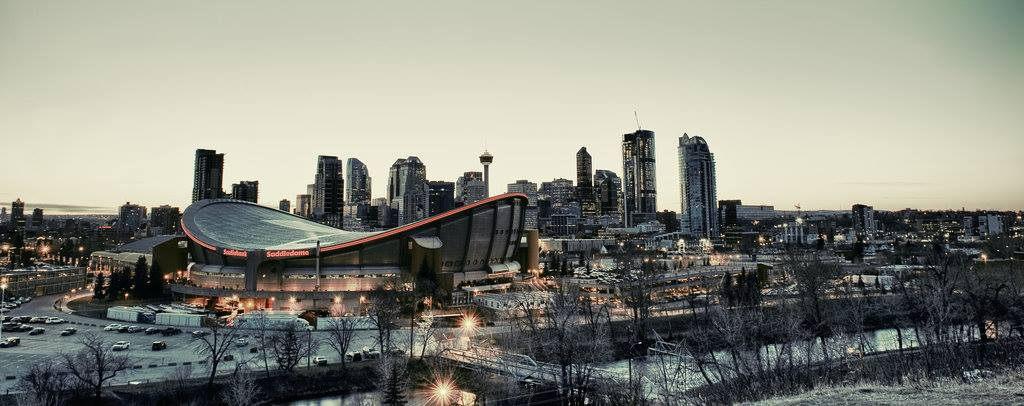
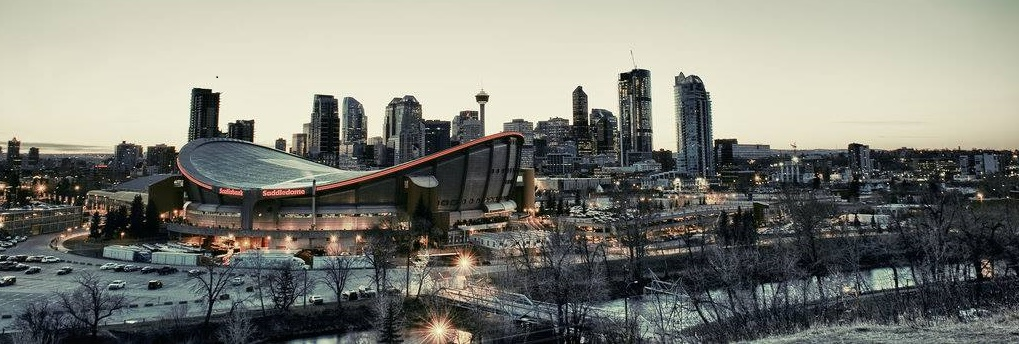
added animations in the beginning. yay

diff --git a/VerticalPrototype/WelcomeToCalgary/WelcomeToCalgary/MainWindow.xaml b/VerticalPrototype/WelcomeToCalgary/WelcomeToCalgary/MainWindow.xaml
@@ -6,65 +6,189 @@
         xmlns:local="clr-namespace:WelcomeToCalgary"
         mc:Ignorable="d"
         Title="MainWindow" Height="800" Width="600">
-    <StackPanel>
-        <Grid x:Name="HeaderGrid" Height="80">
+	<Window.Resources>
+		<Storyboard x:Key="startup">
+			<DoubleAnimationUsingKeyFrames Storyboard.TargetProperty="(UIElement.RenderTransform).(TransformGroup.Children)[3].(TranslateTransform.Y)" Storyboard.TargetName="image">
+				<EasingDoubleKeyFrame KeyTime="0" Value="10.449"/>
+				<EasingDoubleKeyFrame KeyTime="0:0:0.5" Value="10.449"/>
+				<EasingDoubleKeyFrame KeyTime="0:0:1.7" Value="10.449"/>
+				<EasingDoubleKeyFrame KeyTime="0:0:2.9" Value="8.211"/>
+			</DoubleAnimationUsingKeyFrames>
+			<DoubleAnimationUsingKeyFrames Storyboard.TargetProperty="(UIElement.Opacity)" Storyboard.TargetName="HeaderGrid">
+				<EasingDoubleKeyFrame KeyTime="0" Value="0"/>
+				<EasingDoubleKeyFrame KeyTime="0:0:2" Value="1"/>
+			</DoubleAnimationUsingKeyFrames>
+			<DoubleAnimationUsingKeyFrames Storyboard.TargetProperty="(UIElement.Opacity)" Storyboard.TargetName="image">
+				<EasingDoubleKeyFrame KeyTime="0" Value="0.005"/>
+				<EasingDoubleKeyFrame KeyTime="0:0:0.5" Value="0.59"/>
+				<EasingDoubleKeyFrame KeyTime="0:0:1.7" Value="1"/>
+			</DoubleAnimationUsingKeyFrames>
+			<DoubleAnimationUsingKeyFrames Storyboard.TargetProperty="(UIElement.Opacity)" Storyboard.TargetName="calgaryLogo">
+				<EasingDoubleKeyFrame KeyTime="0" Value="0"/>
+				<EasingDoubleKeyFrame KeyTime="0:0:0.9" Value="0.19"/>
+				<EasingDoubleKeyFrame KeyTime="0:0:2.8" Value="0.91"/>
+			</DoubleAnimationUsingKeyFrames>
+			<DoubleAnimationUsingKeyFrames Storyboard.TargetProperty="(UIElement.Opacity)" Storyboard.TargetName="rectangle">
+				<EasingDoubleKeyFrame KeyTime="0" Value="0"/>
+				<EasingDoubleKeyFrame KeyTime="0:0:0.7" Value="0.425"/>
+				<EasingDoubleKeyFrame KeyTime="0:0:2.9" Value="0.995"/>
+			</DoubleAnimationUsingKeyFrames>
+			<DoubleAnimationUsingKeyFrames Storyboard.TargetProperty="(UIElement.Opacity)" Storyboard.TargetName="rectangle1">
+				<EasingDoubleKeyFrame KeyTime="0" Value="0"/>
+			</DoubleAnimationUsingKeyFrames>
+			<DoubleAnimationUsingKeyFrames Storyboard.TargetProperty="(UIElement.Opacity)" Storyboard.TargetName="rectangle2">
+				<EasingDoubleKeyFrame KeyTime="0" Value="0"/>
+			</DoubleAnimationUsingKeyFrames>
+			<ObjectAnimationUsingKeyFrames Storyboard.TargetProperty="(UIElement.Visibility)" Storyboard.TargetName="rectangle2">
+				<DiscreteObjectKeyFrame KeyTime="0" Value="{x:Static Visibility.Hidden}"/>
+			</ObjectAnimationUsingKeyFrames>
+			<ObjectAnimationUsingKeyFrames Storyboard.TargetProperty="(UIElement.Visibility)" Storyboard.TargetName="rectangle1">
+				<DiscreteObjectKeyFrame KeyTime="0" Value="{x:Static Visibility.Hidden}"/>
+			</ObjectAnimationUsingKeyFrames>
+			<ObjectAnimationUsingKeyFrames Storyboard.TargetProperty="(UIElement.Visibility)" Storyboard.TargetName="rectangle3">
+				<DiscreteObjectKeyFrame KeyTime="0" Value="{x:Static Visibility.Hidden}"/>
+			</ObjectAnimationUsingKeyFrames>
+			<ObjectAnimationUsingKeyFrames Storyboard.TargetProperty="(UIElement.Visibility)" Storyboard.TargetName="rectangle4">
+				<DiscreteObjectKeyFrame KeyTime="0" Value="{x:Static Visibility.Hidden}"/>
+			</ObjectAnimationUsingKeyFrames>
+			<ObjectAnimationUsingKeyFrames Storyboard.TargetProperty="(UIElement.Visibility)" Storyboard.TargetName="rectangle5">
+				<DiscreteObjectKeyFrame KeyTime="0" Value="{x:Static Visibility.Hidden}"/>
+			</ObjectAnimationUsingKeyFrames>
+			<ObjectAnimationUsingKeyFrames Storyboard.TargetProperty="(UIElement.Visibility)" Storyboard.TargetName="calgaryLogo">
+				<DiscreteObjectKeyFrame KeyTime="0" Value="{x:Static Visibility.Hidden}"/>
+				<DiscreteObjectKeyFrame KeyTime="0:0:0.9" Value="{x:Static Visibility.Visible}"/>
+				<DiscreteObjectKeyFrame KeyTime="0:0:2.8" Value="{x:Static Visibility.Visible}"/>
+			</ObjectAnimationUsingKeyFrames>
+			<ObjectAnimationUsingKeyFrames Storyboard.TargetProperty="(UIElement.Visibility)" Storyboard.TargetName="rectangle6">
+				<DiscreteObjectKeyFrame KeyTime="0" Value="{x:Static Visibility.Hidden}"/>
+				<DiscreteObjectKeyFrame KeyTime="0:0:0.9" Value="{x:Static Visibility.Visible}"/>
+			</ObjectAnimationUsingKeyFrames>
+			<ObjectAnimationUsingKeyFrames Storyboard.TargetProperty="(UIElement.Visibility)" Storyboard.TargetName="rectangle">
+				<DiscreteObjectKeyFrame KeyTime="0" Value="{x:Static Visibility.Hidden}"/>
+				<DiscreteObjectKeyFrame KeyTime="0:0:0.7" Value="{x:Static Visibility.Visible}"/>
+			</ObjectAnimationUsingKeyFrames>
+			<DoubleAnimationUsingKeyFrames Storyboard.TargetProperty="(UIElement.Opacity)" Storyboard.TargetName="rectangle6">
+				<EasingDoubleKeyFrame KeyTime="0" Value="1"/>
+				<EasingDoubleKeyFrame KeyTime="0:0:0.9" Value="0.46"/>
+				<EasingDoubleKeyFrame KeyTime="0:0:2.8" Value="0.95"/>
+			</DoubleAnimationUsingKeyFrames>
+			<DoubleAnimationUsingKeyFrames Storyboard.TargetProperty="(UIElement.RenderTransform).(TransformGroup.Children)[3].(TranslateTransform.X)" Storyboard.TargetName="image">
+				<EasingDoubleKeyFrame KeyTime="0" Value="1.493"/>
+				<EasingDoubleKeyFrame KeyTime="0:0:0.5" Value="0"/>
+			</DoubleAnimationUsingKeyFrames>
+			<DoubleAnimationUsingKeyFrames Storyboard.TargetProperty="(UIElement.RenderTransform).(TransformGroup.Children)[0].(ScaleTransform.ScaleY)" Storyboard.TargetName="image">
+				<EasingDoubleKeyFrame KeyTime="0" Value="1"/>
+				<EasingDoubleKeyFrame KeyTime="0:0:0.5" Value="1"/>
+				<EasingDoubleKeyFrame KeyTime="0:0:1.7" Value="1"/>
+				<EasingDoubleKeyFrame KeyTime="0:0:2.9" Value="0.986"/>
+			</DoubleAnimationUsingKeyFrames>
+			<DoubleAnimationUsingKeyFrames Storyboard.TargetProperty="(UIElement.Opacity)" Storyboard.TargetName="rectangle7">
+				<EasingDoubleKeyFrame KeyTime="0" Value="0"/>
+				<EasingDoubleKeyFrame KeyTime="0:0:1.8" Value="1"/>
+			</DoubleAnimationUsingKeyFrames>
+			<DoubleAnimationUsingKeyFrames Storyboard.TargetProperty="(UIElement.Opacity)" Storyboard.TargetName="stackPanel">
+				<EasingDoubleKeyFrame KeyTime="0" Value="0"/>
+				<EasingDoubleKeyFrame KeyTime="0:0:2.8" Value="1"/>
+			</DoubleAnimationUsingKeyFrames>
+		</Storyboard>
+		<Storyboard x:Key="eventsSelection"/>
+	</Window.Resources>
+	<Window.Triggers>
+		<EventTrigger RoutedEvent="FrameworkElement.Loaded">
+			<BeginStoryboard Storyboard="{StaticResource startup}"/>
+			<BeginStoryboard Storyboard="{StaticResource eventsSelection}"/>
+		</EventTrigger>
+	</Window.Triggers>
+    <StackPanel x:Name="stackPanel">
+        <Grid x:Name="HeaderGrid" Height="80" Background="Black">
             <Button x:Name="buttPoI" Content="Places of&#xA;Interest" HorizontalAlignment="Left" Height="50" Margin="10,20,0,0" VerticalAlignment="Top" Width="100" Click="buttPoI_Click" FontSize="16" IsEnabled="False"/>
             <Button x:Name="buttCalInfo" Content="Info about&#xA;Calgary" HorizontalAlignment="Left" Height="50" Margin="115,20,0,0" VerticalAlignment="Top" Width="100" Click="buttCalInfo_Click" FontSize="16" IsEnabled="False"/>
-            <Button x:Name="buttEvents" Content="Socializing&#xA;and Events" HorizontalAlignment="Left" Height="50" Margin="220,20,0,0" VerticalAlignment="Top" Width="100" Click="buttEvents_Click" FontSize="16"/>
-            <Button x:Name="buttLinks" Content="Useful&#xA;Links" HorizontalAlignment="Left" Height="50" Margin="325,20,0,0" VerticalAlignment="Top" Width="100" Click="buttLinks_Click" FontSize="16" IsEnabled="False"/>
+            <Button x:Name="buttEvents" Content="Socializing&#xA;and Events" HorizontalAlignment="Left" Height="50" Margin="220,20,0,0" VerticalAlignment="Top" Width="100" Click="buttEvents_Click" FontSize="14.667" BorderThickness="0" FontFamily="Pericles" RenderTransformOrigin="0,0" Background="#FFFBFBFB" BorderBrush="#FFF9F9F9">
+            	<Button.Effect>
+            		<DropShadowEffect BlurRadius="0" Opacity="0"/>
+            	</Button.Effect>
+            </Button>
+            <Button x:Name="buttLinks" Content="Useful&#xA;Links" HorizontalAlignment="Left" Height="50" Margin="325,20,0,0" VerticalAlignment="Top" Width="100" Click="buttLinks_Click" FontSize="16" IsEnabled="False" BorderThickness="1"/>
             <Rectangle Fill="#FFF4F4F5" HorizontalAlignment="Left" Height="1" Margin="0,79,0,0" Stroke="Black" VerticalAlignment="Top" Width="600"/>
             <Button Name="buttHome" Content="Home" HorizontalAlignment="Left" Margin="473,29,0,0" VerticalAlignment="Top" Width="79" Click="buttHome_Click" Height="29" />
+            
         </Grid>
 
-        <ScrollViewer x:Name="MainViewer" Height="680">
+        
             <StackPanel x:Name="MainScroll">
-                <Grid x:Name="HomepageGrid" Height="680">
-                    <Image HorizontalAlignment="Left" Margin="-56,-88,-238,463" Width="869" Source="12062659_10209205325558339_513850230_o.jpg"/>
-                    <Rectangle HorizontalAlignment="Center" Width="239" Margin="168,151,168,395" Fill="Black"/>
-                    <Rectangle HorizontalAlignment="Center" Width="220" Height="120" Margin="168,151,168,395" Fill="White"/>
-                    <Image x:Name="calgaryLogo" HorizontalAlignment="Center" Height="103" Margin="0,166,0,0" VerticalAlignment="Top" Width="214" Source="chnw_186_large4presentations.jpg"/>
-                    <Rectangle HorizontalAlignment="Left" Height="100" VerticalAlignment="Top" Width="100" Margin="475,580,0,0">
-                    	<Rectangle.Fill>
-                    		<RadialGradientBrush>
-                    			<GradientStop Color="Black" Offset="0"/>
-                    			<GradientStop Color="White" Offset="1"/>
-                    		</RadialGradientBrush>
-                    	</Rectangle.Fill>
-                    </Rectangle>
-                    <Rectangle HorizontalAlignment="Left" Height="100" VerticalAlignment="Top" Width="100" Margin="465,580,0,0">
-                    	<Rectangle.Fill>
-                    		<RadialGradientBrush>
-                    			<GradientStop Color="Black" Offset="0"/>
-                    			<GradientStop Color="White" Offset="1"/>
-                    		</RadialGradientBrush>
-                    	</Rectangle.Fill>
-                    </Rectangle>
-                    <Rectangle HorizontalAlignment="Left" Height="100" VerticalAlignment="Top" Width="100" Margin="446.513,580,0,0">
-                    	<Rectangle.Fill>
-                    		<RadialGradientBrush>
-                    			<GradientStop Color="Black" Offset="0"/>
-                    			<GradientStop Color="White" Offset="1"/>
-                    		</RadialGradientBrush>
-                    	</Rectangle.Fill>
-                    </Rectangle>
-                    <Rectangle HorizontalAlignment="Left" Height="100" VerticalAlignment="Top" Width="100" Margin="433.457,580,0,0">
-                    	<Rectangle.Fill>
-                    		<RadialGradientBrush>
-                    			<GradientStop Color="Black" Offset="0"/>
-                    			<GradientStop Color="White" Offset="1"/>
-                    		</RadialGradientBrush>
-                    	</Rectangle.Fill>
-                    </Rectangle>
-                    <Rectangle HorizontalAlignment="Left" Height="100" VerticalAlignment="Top" Width="100" Margin="419.214,580,0,0">
-                    	<Rectangle.Fill>
-                    		<RadialGradientBrush>
-                    			<GradientStop Color="Black" Offset="0"/>
-                    			<GradientStop Color="White" Offset="1"/>
-                    		</RadialGradientBrush>
-                    	</Rectangle.Fill>
-                    </Rectangle>
-                </Grid>
-            </StackPanel>
-        </ScrollViewer>
+            <Grid x:Name="HomepageGrid" Height="680" RenderTransformOrigin="0.5,0.5">
+            	<Grid.Background>
+            		<LinearGradientBrush EndPoint="0.5,1" StartPoint="0.5,0">
+            			<GradientStop Color="Black"/>
+            			<GradientStop Color="#FF6A2C2C" Offset="0.996"/>
+            			<GradientStop Color="#FF173C4D" Offset="0.522"/>
+            		</LinearGradientBrush>
+            	</Grid.Background>
+            	<Grid.RenderTransform>
+            		<TransformGroup>
+            			<ScaleTransform/>
+            			<SkewTransform/>
+            			<RotateTransform/>
+            			<TranslateTransform/>
+            		</TransformGroup>
+            	</Grid.RenderTransform>
+            	<Image x:Name="image" HorizontalAlignment="Left" Margin="-99.866,0,-177.134,395" Width="869" Source="12062659_10209205325558339_513850230_o.jpg" Opacity="0.925" RenderTransformOrigin="0.5,0.5">
+            		<Image.RenderTransform>
+            			<TransformGroup>
+            				<ScaleTransform/>
+            				<SkewTransform/>
+            				<RotateTransform/>
+            				<TranslateTransform/>
+            			</TransformGroup>
+            		</Image.RenderTransform>
+            	</Image>
+            	<Rectangle x:Name="rectangle" HorizontalAlignment="Center" Width="239" Margin="168,151,168,395" Fill="Black"/>
+            	<Rectangle x:Name="rectangle6" HorizontalAlignment="Center" Width="220" Height="120" Margin="168,151,168,395" Fill="White"/>
+            	<Image x:Name="calgaryLogo" HorizontalAlignment="Center" Height="103" Margin="0,166,0,0" VerticalAlignment="Top" Width="214" Source="chnw_186_large4presentations.jpg"/>
+            	<Rectangle x:Name="rectangle5" HorizontalAlignment="Left" Height="100" VerticalAlignment="Top" Width="100" Margin="475,580,0,0">
+            		<Rectangle.Fill>
+            			<RadialGradientBrush>
+            				<GradientStop Color="Black" Offset="0"/>
+            				<GradientStop Color="White" Offset="1"/>
+            			</RadialGradientBrush>
+            		</Rectangle.Fill>
+            	</Rectangle>
+            	<Rectangle x:Name="rectangle2" HorizontalAlignment="Left" Height="100" VerticalAlignment="Top" Width="100" Margin="465,580,0,0">
+            		<Rectangle.Fill>
+            			<RadialGradientBrush>
+            				<GradientStop Color="Black" Offset="0"/>
+            				<GradientStop Color="White" Offset="1"/>
+            			</RadialGradientBrush>
+            		</Rectangle.Fill>
+            	</Rectangle>
+            	<Rectangle x:Name="rectangle4" HorizontalAlignment="Left" Height="100" VerticalAlignment="Top" Width="100" Margin="446.513,580,0,0">
+            		<Rectangle.Fill>
+            			<RadialGradientBrush>
+            				<GradientStop Color="Black" Offset="0"/>
+            				<GradientStop Color="White" Offset="1"/>
+            			</RadialGradientBrush>
+            		</Rectangle.Fill>
+            	</Rectangle>
+            	<Rectangle x:Name="rectangle3" HorizontalAlignment="Left" Height="100" VerticalAlignment="Top" Width="100" Margin="433.457,580,0,0">
+            		<Rectangle.Fill>
+            			<RadialGradientBrush>
+            				<GradientStop Color="Black" Offset="0"/>
+            				<GradientStop Color="White" Offset="1"/>
+            			</RadialGradientBrush>
+            		</Rectangle.Fill>
+            	</Rectangle>
+            	<Rectangle x:Name="rectangle1" HorizontalAlignment="Left" Height="100" VerticalAlignment="Top" Width="100" Margin="419.214,580,0,0">
+            		<Rectangle.Fill>
+            			<RadialGradientBrush>
+            				<GradientStop Color="Black" Offset="0"/>
+            				<GradientStop Color="White" Offset="1"/>
+            			</RadialGradientBrush>
+            		</Rectangle.Fill>
+            	</Rectangle>
+            	<Rectangle x:Name="rectangle7" Fill="Black" HorizontalAlignment="Left" Height="15" Margin="0,284,0,0" VerticalAlignment="Top" Width="592"/>
+            </Grid>
+        </StackPanel>
+        <Image Height="100"/>
+
     </StackPanel>
 </Window>
